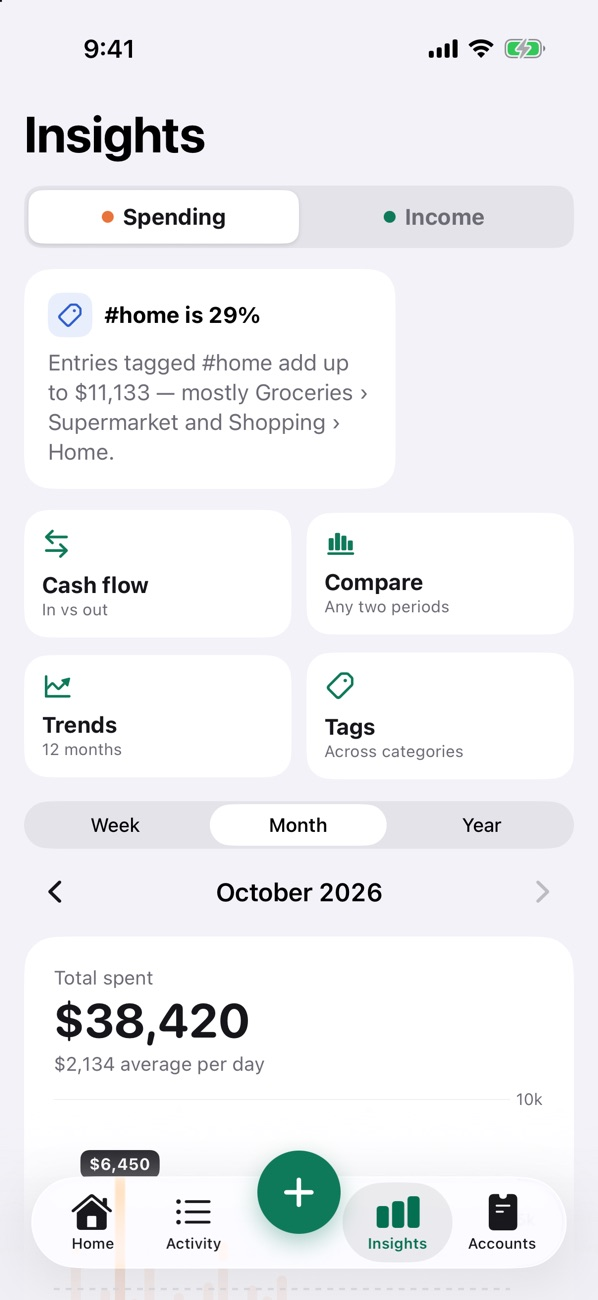
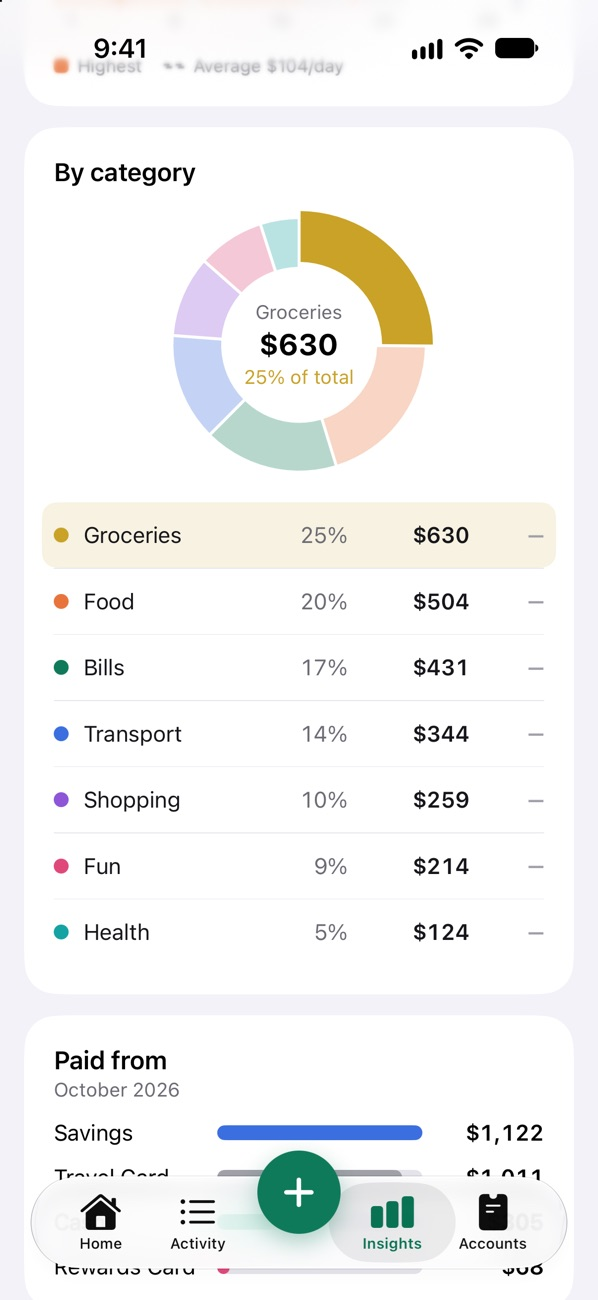
Site: dollar screenshots, iCloud backup is live, Plus FAQs, PDF reports by period
- Six new screenshots (Home, Insights donut, Cash flow, Accounts, Activity,
  PDF report) in US dollars with neutral account names, matching the App Store.
- iCloud backup and restore is part of Moneto Plus now, not coming soon:
  home page, support FAQ, privacy policy section 4 and terms.
- Support: backup/restore answer, PDF reports by month, quarter or year,
  what Plus includes, restoring and cancelling Plus.
- Privacy and terms effective 24 October 2026; sitemap dates.

diff --git a/index.html b/index.html
@@ -39,10 +39,12 @@
         </div>
       </div>
       <div class="screens" role="list" aria-label="App screenshots">
-        <figure role="listitem"><img src="assets/screens/welcome.jpg" alt="Welcome screen with sample account cards fanned behind the Moneto coin" width="600" height="1300" loading="lazy"><figcaption>Your accounts, as cards</figcaption></figure>
-        <figure role="listitem"><img src="assets/screens/insights.jpg" alt="Insights screen with a highlight, shortcuts to Cash flow, Compare, Trends and Tags, and the month's total spent" width="600" height="1300" loading="lazy"><figcaption>Insights that explain</figcaption></figure>
-        <figure role="listitem"><img src="assets/screens/trends.jpg" alt="Trends screen with monthly spending over 12 months and top categories over time" width="600" height="1300" loading="lazy"><figcaption>Trends over the year</figcaption></figure>
-        <figure role="listitem"><img src="assets/screens/onboard-insights.jpg" alt="A spending donut by category with a highlight that weekends cost 32% more" width="600" height="1300" loading="lazy"><figcaption>Where it went</figcaption></figure>
+        <figure role="listitem"><img src="assets/screens/home.jpg" alt="Home screen: $2,506 spent this month, money in and left over, a daily spending chart and account cards" width="598" height="1300" loading="lazy"><figcaption>This month at a glance</figcaption></figure>
+        <figure role="listitem"><img src="assets/screens/insights.jpg" alt="Insights: a spending-by-category donut with Groceries tapped, showing its amount and share" width="598" height="1300" loading="lazy"><figcaption>Tap a slice for details</figcaption></figure>
+        <figure role="listitem"><img src="assets/screens/cashflow.jpg" alt="Cash flow: money in, money out and left over, with a chart following income into each category" width="598" height="1300" loading="lazy"><figcaption>Follow every dollar</figcaption></figure>
+        <figure role="listitem"><img src="assets/screens/accounts.jpg" alt="Accounts: total balance with a savings account, two credit cards and cash as stacked cards" width="598" height="1300" loading="lazy"><figcaption>All your accounts</figcaption></figure>
+        <figure role="listitem"><img src="assets/screens/activity.jpg" alt="Activity: search, filters and entries grouped by day" width="598" height="1300" loading="lazy"><figcaption>Find any entry</figcaption></figure>
+        <figure role="listitem"><img src="assets/screens/report.jpg" alt="A PDF report page with the month at a glance, daily spending and categories" width="598" height="1300" loading="lazy"><figcaption>Reports to keep or share</figcaption></figure>
       </div>
     </div>
 
@@ -61,7 +63,7 @@
           <article class="card feature">
             <div class="tile t-blue" aria-hidden="true"><svg viewBox="0 0 24 24" fill="currentColor"><path d="M11 2.05A10 10 0 1 0 21.95 13H11V2.05z"/><path d="M13 2.05V11h8.95A10 10 0 0 0 13 2.05z" opacity=".55"/></svg></div>
             <h3>See where it goes</h3>
-            <p>Categories and sub-categories, tags, cash flow and month-to-month comparisons.</p>
+            <p>Categories and sub-categories, tags, cash flow and month-to-month comparisons. Tap any slice of a chart for the details.</p>
           </article>
           <article class="card feature">
             <div class="tile t-mustard" aria-hidden="true"><svg viewBox="0 0 24 24" fill="currentColor"><path d="M12 2l1.8 5.2L19 9l-5.2 1.8L12 16l-1.8-5.2L5 9l5.2-1.8L12 2zm7 11l.9 2.6 2.6.9-2.6.9L19 20l-.9-2.6-2.6-.9 2.6-.9L19 13zM5 14l.7 1.8 1.8.7-1.8.7L5 19l-.7-1.8-1.8-.7 1.8-.7L5 14z"/></svg></div>
@@ -76,12 +78,12 @@
           <article class="card feature">
             <div class="tile t-green" aria-hidden="true"><svg viewBox="0 0 24 24" fill="currentColor"><path d="M12 2 4 5v6c0 5 3.4 9.7 8 11 4.6-1.3 8-6 8-11V5l-8-3zm-1 13-3.5-3.5 1.4-1.4L11 12.2l4.6-4.6L17 9l-6 6z"/></svg></div>
             <h3>Private by design</h3>
-            <p>No accounts, no servers, no ads, no tracking. Lock it with Face ID if you like.</p>
+            <p>No sign-up, no servers, no ads, no tracking. Lock it with Face ID, and back up to your own private iCloud if you like.</p>
           </article>
           <article class="card feature">
             <div class="tile t-purple" aria-hidden="true"><svg viewBox="0 0 24 24" fill="currentColor"><path d="M6 2h8l6 6v12a2 2 0 0 1-2 2H6a2 2 0 0 1-2-2V4a2 2 0 0 1 2-2zm7 1.5V9h5.5L13 3.5zM8 13v2h8v-2H8zm0 4v2h5v-2H8z"/></svg></div>
             <h3>Yours to keep</h3>
-            <p>Export a CSV any time — your data is never locked in. Monthly PDF reports with Plus.</p>
+            <p>Export a CSV any time — your data is never locked in. PDF reports by month, quarter or year with Plus.</p>
           </article>
         </div>
       </div>
@@ -100,7 +102,7 @@
           </article>
           <article class="card feature">
             <h3>Moneto Plus</h3>
-            <p>Cash flow and Compare · tags and the Tags insight · Year view and every highlight · PDF reports by month, quarter or year · unlimited accounts, e-wallets included · unlimited recurring items · premium app icons · iCloud backup (coming soon)</p>
+            <p>Cash flow and Compare · tags and the Tags insight · Year view and every highlight · PDF reports by month, quarter or year · unlimited accounts, e-wallets included · unlimited recurring items · nine more app icons · iCloud backup and restore</p>
             <p style="margin-top:12px;color:var(--text)"><strong>$1.99 a month · $14.99 a year (1 week free) · $39.99 once</strong></p>
           </article>
         </div>
@@ -111,7 +113,7 @@
       <div class="wrap">
         <div class="privacy-band">
           <h2>Your money is nobody else’s business.</h2>
-          <p>Everything you log stays on your iPhone. Moneto has no servers, so there’s nothing for us to collect, sell or lose.</p>
+          <p>Everything you log stays on your iPhone, and in your own private iCloud if you turn on backup. Moneto has no servers, so there’s nothing for us to collect, sell or lose.</p>
           <div class="chips"><span>Data not collected</span><span>No ads</span><span>No tracking</span><span>No bank logins</span></div>
           <a href="privacy.html">Read the privacy policy</a>
         </div>

diff --git a/support.html b/support.html
@@ -45,11 +45,11 @@
 
     <details>
       <summary>Where is my data stored?</summary>
-      <p>Only on your iPhone, in the app’s private storage. Moneto has no servers and no accounts, and never connects to your bank. See the <a href="privacy.html">privacy policy</a>.</p>
+      <p>On your iPhone, in the app’s private storage — and, if you turn on iCloud backup, in your own private iCloud, which only you can see. Moneto has no servers and no accounts, and never connects to your bank. See the <a href="privacy.html">privacy policy</a>.</p>
     </details>
     <details>
       <summary>How do I back up my data or move it to a new iPhone?</summary>
-      <p>Go to Settings → Export CSV and save the file somewhere safe (Files, iCloud Drive, email). Importing a CSV back into Moneto is coming in a later update, and so is an automatic iCloud backup.</p>
+      <p>Turn on Settings → iCloud backup (part of Moneto Plus). On a new iPhone, or after reinstalling, choose “Restore from iCloud” when Moneto first opens and your data comes back. You can also export a CSV any time from Settings → Export CSV; importing a CSV back into Moneto is coming in a later update.</p>
     </details>
     <details>
       <summary>How do I change the currency?</summary>
@@ -72,8 +72,16 @@
       <p>Settings → Categories &amp; sub-categories to add, rename, recolour or reorder. While adding an entry, “+ New” in the SUB row adds a sub-category on the spot. Tags can be typed while adding an entry, or created and managed in Settings → Tags.</p>
     </details>
     <details>
-      <summary>How do I get a monthly report?</summary>
-      <p>Settings → Monthly PDF report. Pick a month to see a 3-page PDF summary, then share or save it.</p>
+      <summary>How do I get a PDF report?</summary>
+      <p>Settings → PDF reports (part of Moneto Plus). Pick a month, quarter or year to get a PDF summary, then share or save it. Without Plus you can open a sample report made from demo data.</p>
+    </details>
+    <details>
+      <summary>What does Moneto Plus include, and what does it cost?</summary>
+      <p>Tracking stays free and unlimited. Plus adds Cash flow and Compare, tags, the Year view and every highlight, PDF reports, unlimited accounts and recurring items, iCloud backup and nine more app icons. It’s a monthly or yearly subscription (the yearly plan starts with a 1-week free trial) or a one-time lifetime purchase you can share with Family Sharing. Prices are shown in your currency in Settings → Moneto Plus.</p>
+    </details>
+    <details>
+      <summary>How do I restore or cancel Moneto Plus?</summary>
+      <p>On a new iPhone or after reinstalling, tap Settings → Restore purchases. To cancel a subscription, go to iOS Settings → your name → Subscriptions; you keep Plus until the end of the period you’ve paid for. If Plus ends, nothing you made is removed.</p>
     </details>
     <details>
       <summary>How do I lock the app?</summary>
@@ -81,7 +89,7 @@
     </details>
     <details>
       <summary>How do I delete everything?</summary>
-      <p>Settings → Erase all data, then confirm twice. This removes every entry, account, category, tag and recurring item from your iPhone and can’t be undone — export a CSV first if you might want your data later.</p>
+      <p>Settings → Erase all data, then confirm twice. This removes every entry, account, category, tag and recurring item from your iPhone and can’t be undone — export a CSV first if you might want your data later. An iCloud backup, if you turned it on, stays in your iCloud until you remove it in iOS Settings → your name → iCloud.</p>
     </details>
     <details>
       <summary>What should I include when reporting a bug?</summary>

diff --git a/privacy.html b/privacy.html
@@ -25,7 +25,7 @@
 
   <main id="main" class="doc">
     <h1>Privacy Policy</h1>
-    <p class="meta">Effective 18 October 2026</p>
+    <p class="meta">Effective 24 October 2026</p>
 
     <div class="summary">
       <strong>The short version</strong>
@@ -64,11 +64,11 @@
     <p>On the App Store this is shown as <strong>“Data Not Collected”</strong>.</p>
 
     <h2 id="device">3. Data on your device</h2>
-    <p>What you enter — entries (expenses, income and transfers), amounts, notes, accounts and their opening balances, categories, tags and recurring items — and your settings (currency, first day of the week, appearance, app lock) are stored only on your iPhone, in the app’s private storage. iOS protects this storage with your device passcode.</p>
+    <p>What you enter — entries (expenses, income and transfers), amounts, notes, accounts and their opening balances, categories, tags and recurring items — and your settings (currency, first day of the week, appearance, app lock) are stored on your iPhone, in the app’s private storage, and nowhere else unless you turn on iCloud backup (see below). iOS protects this storage with your device passcode.</p>
     <p>Moneto never connects to banks, cards or payment services, and never reads your SMS or email.</p>
 
     <h2 id="icloud">4. iCloud backup</h2>
-    <p>A future version may offer an optional <strong>iCloud backup</strong>, off by default. If you turn it on, a copy of your data is stored in <em>your own</em> private iCloud database by Apple, so it can come back if you reinstall the app or move to a new iPhone. That data is tied to your Apple Account and governed by <a href="https://www.apple.com/legal/privacy/" rel="noopener">Apple’s privacy policy</a>; we can’t see or access it.</p>
+    <p><strong>iCloud backup</strong> is optional and off by default (it’s part of Moneto Plus). If you turn it on in Settings, a copy of your data is stored in <em>your own</em> private iCloud database by Apple, so it can come back if you reinstall the app or move to a new iPhone. That data is tied to your Apple Account and governed by <a href="https://www.apple.com/legal/privacy/" rel="noopener">Apple’s privacy policy</a>; we can’t see or access it.</p>
 
     <h2 id="permissions">5. Permissions</h2>
     <ul>
@@ -77,7 +77,7 @@
     </ul>
 
     <h2 id="exports">6. Exports</h2>
-    <p>CSV exports and monthly PDF reports are created on your iPhone only when you ask, and go only where you choose to send or save them (for example Files, Mail or AirDrop). Once you share a file, the app you share it with handles it under its own policy.</p>
+    <p>CSV exports and PDF reports are created on your iPhone only when you ask, and go only where you choose to send or save them (for example Files, Mail or AirDrop). Once you share a file, the app you share it with handles it under its own policy.</p>
 
     <h2 id="feedback">7. Feedback and support</h2>
     <p>If you choose “Send feedback” or “Report an issue”, your email app opens a message to us, prefilled with the app version, iOS version and device model so we can help. Nothing is sent unless you send the email. We use what you write only to reply to you and to improve Moneto, and we don’t share it. You can ask us to delete your messages at any time.</p>

diff --git a/terms.html b/terms.html
@@ -25,7 +25,7 @@
 
   <main id="main" class="doc">
     <h1>Terms of Use</h1>
-    <p class="meta">Effective 18 October 2026</p>
+    <p class="meta">Effective 24 October 2026</p>
 
     <p>These terms apply to the Moneto app for iPhone (“Moneto”) and this website. By downloading or using Moneto you agree to them. If you don’t agree, please don’t use the app.</p>
 
@@ -36,7 +36,7 @@
     <p>Moneto is a personal tool for recording and reviewing your own spending and income. Balances, charts, insights and reports are calculated only from what you enter. Moneto is <strong>not</strong> a bank, a financial adviser or an accounting service, and nothing in the app is financial, tax, investment or legal advice. Check important figures against your bank and card statements.</p>
 
     <h2>3. Moneto Plus</h2>
-    <p>Moneto is free to download and use. <strong>Moneto Plus</strong> is an optional upgrade that unlocks extra features (such as Cash flow and Compare, tags, the Year view and every highlight, PDF reports, unlimited accounts and recurring items, premium app icons and iCloud backup when available). Recording entries, a bank account, two cards and a cash account, categories, Trends and exporting your data stay free. If Plus ends, nothing you created is removed; only adding more is limited.</p>
+    <p>Moneto is free to download and use. <strong>Moneto Plus</strong> is an optional upgrade that unlocks extra features (such as Cash flow and Compare, tags, the Year view and every highlight, PDF reports, unlimited accounts and recurring items, premium app icons and iCloud backup). Recording entries, a bank account, two cards and a cash account, categories, Trends and exporting your data stay free. If Plus ends, nothing you created is removed; only adding more is limited.</p>
     <ul>
       <li><strong>Plans.</strong> Moneto Plus is offered as a monthly or yearly auto-renewing subscription, or as a one-time lifetime purchase. Prices are shown in the app in your local currency before you buy.</li>
       <li><strong>Payment.</strong> Payment is charged to your Apple Account when you confirm the purchase. We never see your payment details.</li>

diff --git a/README.md b/README.md
@@ -31,7 +31,7 @@ absolute URLs in `robots.txt`, `sitemap.xml` and the `/moneto-site/` paths in `4
 ## Updating
 
 - **Screenshots** (`assets/screens/*.jpg`, 600 × 1300) are taken from the iOS Simulator with the sample data in US dollars,
-  avoiding screens that show the sample bank names.
+  with neutral account names (no real bank names): Home, Insights, Cash flow, Accounts, Activity and a PDF report.
 - **Icon** (`assets/icon-512.png`, `apple-touch-icon.png`, `favicon-64.png`) comes from the app’s
   `AppIcon-1024.png`.
 - Keep `privacy.html` in step with the app’s in-app privacy policy, and change the **Effective** date whenever it changes.
